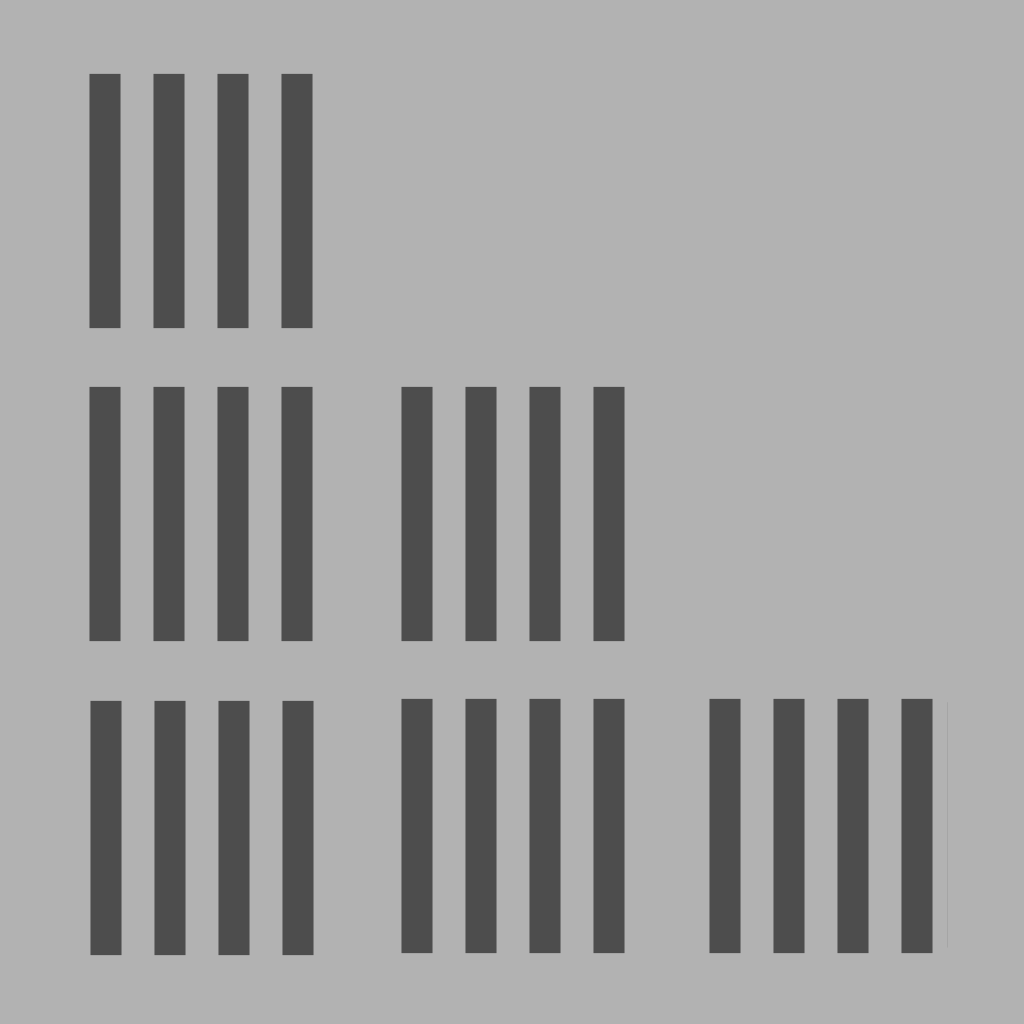
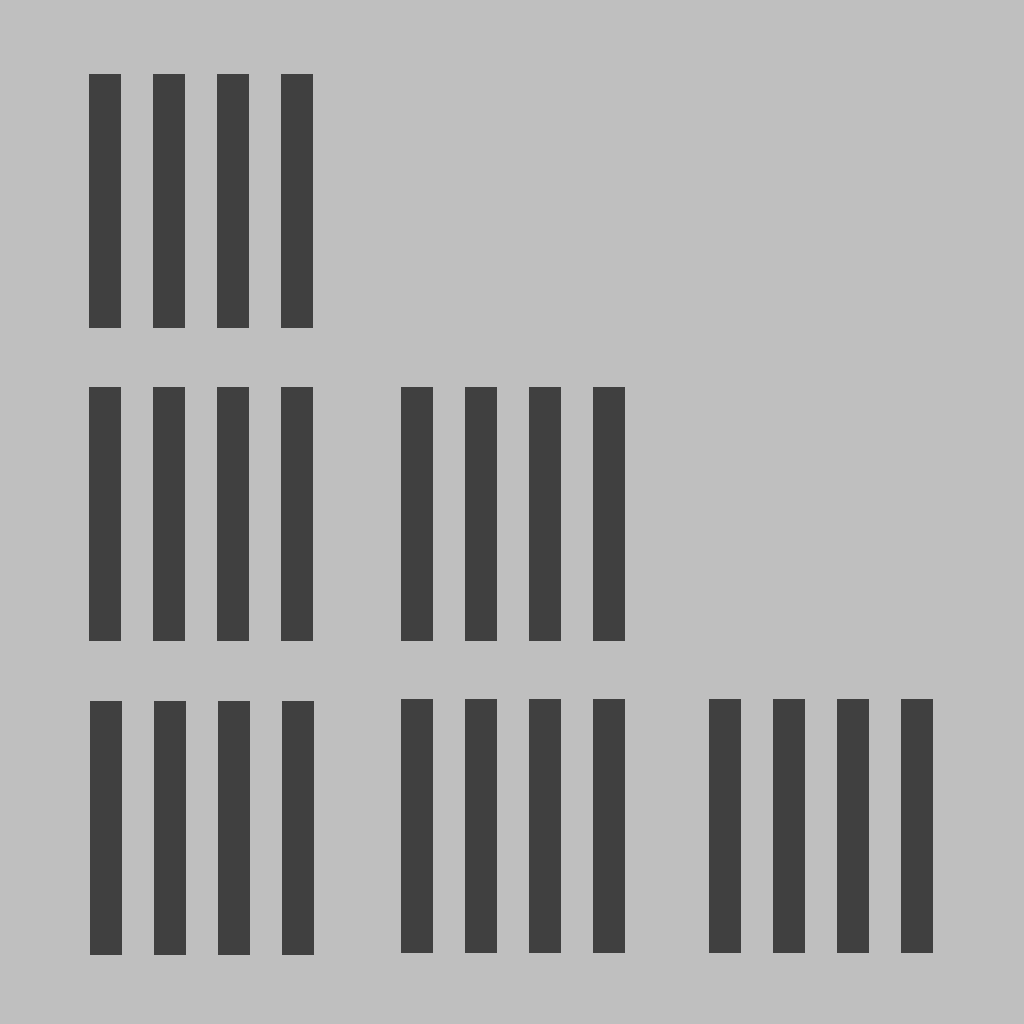
new files for 0.25 and 0.5, went with 0.25

diff --git a/Game/becky_zebra/main.cpp b/Game/becky_zebra/main.cpp
@@ -447,9 +447,9 @@ const std::vector<int> group_sizes =
 ///7 in final
 const std::vector<float> protean =
 {
-    //0.049, 0.069, 0.098, 0.139, 0.196, 0.278, 0.393
+    0.049, 0.069, 0.098, 0.139, 0.196, 0.278, 0.393
     ///PILOT
-    0.049, 0.098, 0.138, 0.278, 0.393
+    //0.049, 0.098, 0.138, 0.278, 0.393
 };
 
 ///currently rand, parallel, perp
@@ -458,7 +458,7 @@ const std::vector<float> protean =
 
 const std::vector<std::string> stripe_names =
 {
-    ///1.0
+    /*///1.0
     "../Res/tex_cube.obj",
     ///0.8
     "../Res/tex_cube_2.obj",
@@ -467,6 +467,10 @@ const std::vector<std::string> stripe_names =
     ///0.4
     "../Res/tex_cube_2_low.obj",
     ///0.2
+    "../Res/tex_cube_3_low.obj"*/
+    ///1.0
+    "../Res/tex_cube.obj",
+    ///0.25
     "../Res/tex_cube_3_low.obj"
 };
 
@@ -474,9 +478,11 @@ const std::vector<std::string> stripe_names =
 const std::vector<float> viewing_angles =
 {
     ///PILOT
-    45.f,
-    30.f,
-    20.f
+    90,
+    72.5,
+    55,
+    37.5,
+    20
 };
 
 struct run_config

diff --git a/Game/Space_game/main.cpp b/Game/Space_game/main.cpp
@@ -357,6 +357,9 @@ int main(int argc, char *argv[])
 
         ///make nebula blend things which are too far away?
         ///make this use game_cam instead of c_pos
+        ///space nebula blends with background, but what I want to do is
+        ///only stars behind blend, stars in front don't
+        ///Maybe we need a galaxy blend buffer?
         window.draw_space_nebulae(cloud_buf, g_game_cam);
 
         window.draw_space_dust_cloud(g_space_dust, g_game_cam);

diff --git a/cloud_gen/cloud_gen.cpp b/cloud_gen/cloud_gen.cpp
@@ -94,10 +94,8 @@ point_cloud get_3d_nebula()
     for(int i=0; i<num_points; i++)
     {
         cl_float4 pos {random_float() - 0.5f, random_float() - 0.5f, random_float() - 0.5f};
-        //cl_float4 col = {0, 0, 1};
 
         const float spread = 200;
-
 
         uint32_t r = 0, g = 0, b = 0;
 
@@ -107,7 +105,6 @@ point_cloud get_3d_nebula()
 
 
         uint32_t col = r | g << 8 | b << 16;
-
 
 
         pos = mult(pos, spread);

diff --git a/main.cpp b/main.cpp
@@ -11,7 +11,7 @@
 ///rift head movement is wrong
 
 
-
+///gamma correct mipmap filtering
 int main(int argc, char *argv[])
 {
     ///remember to make g_arrange_mem run faster!
